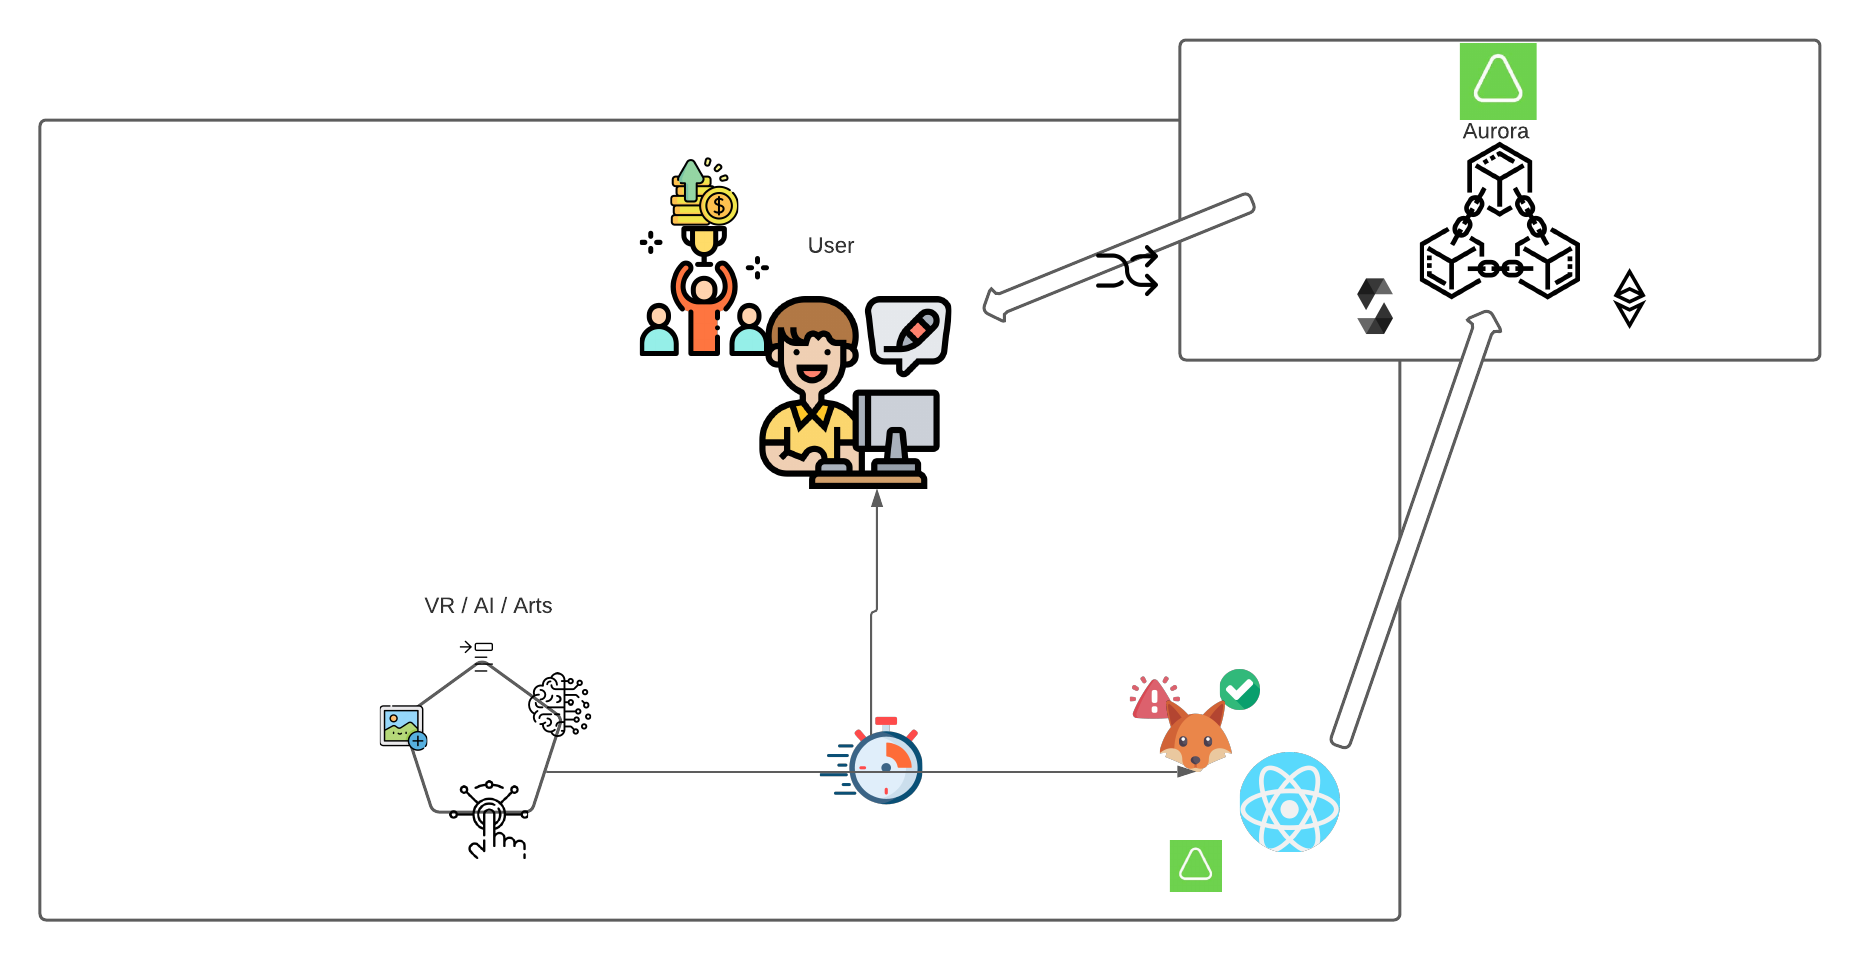
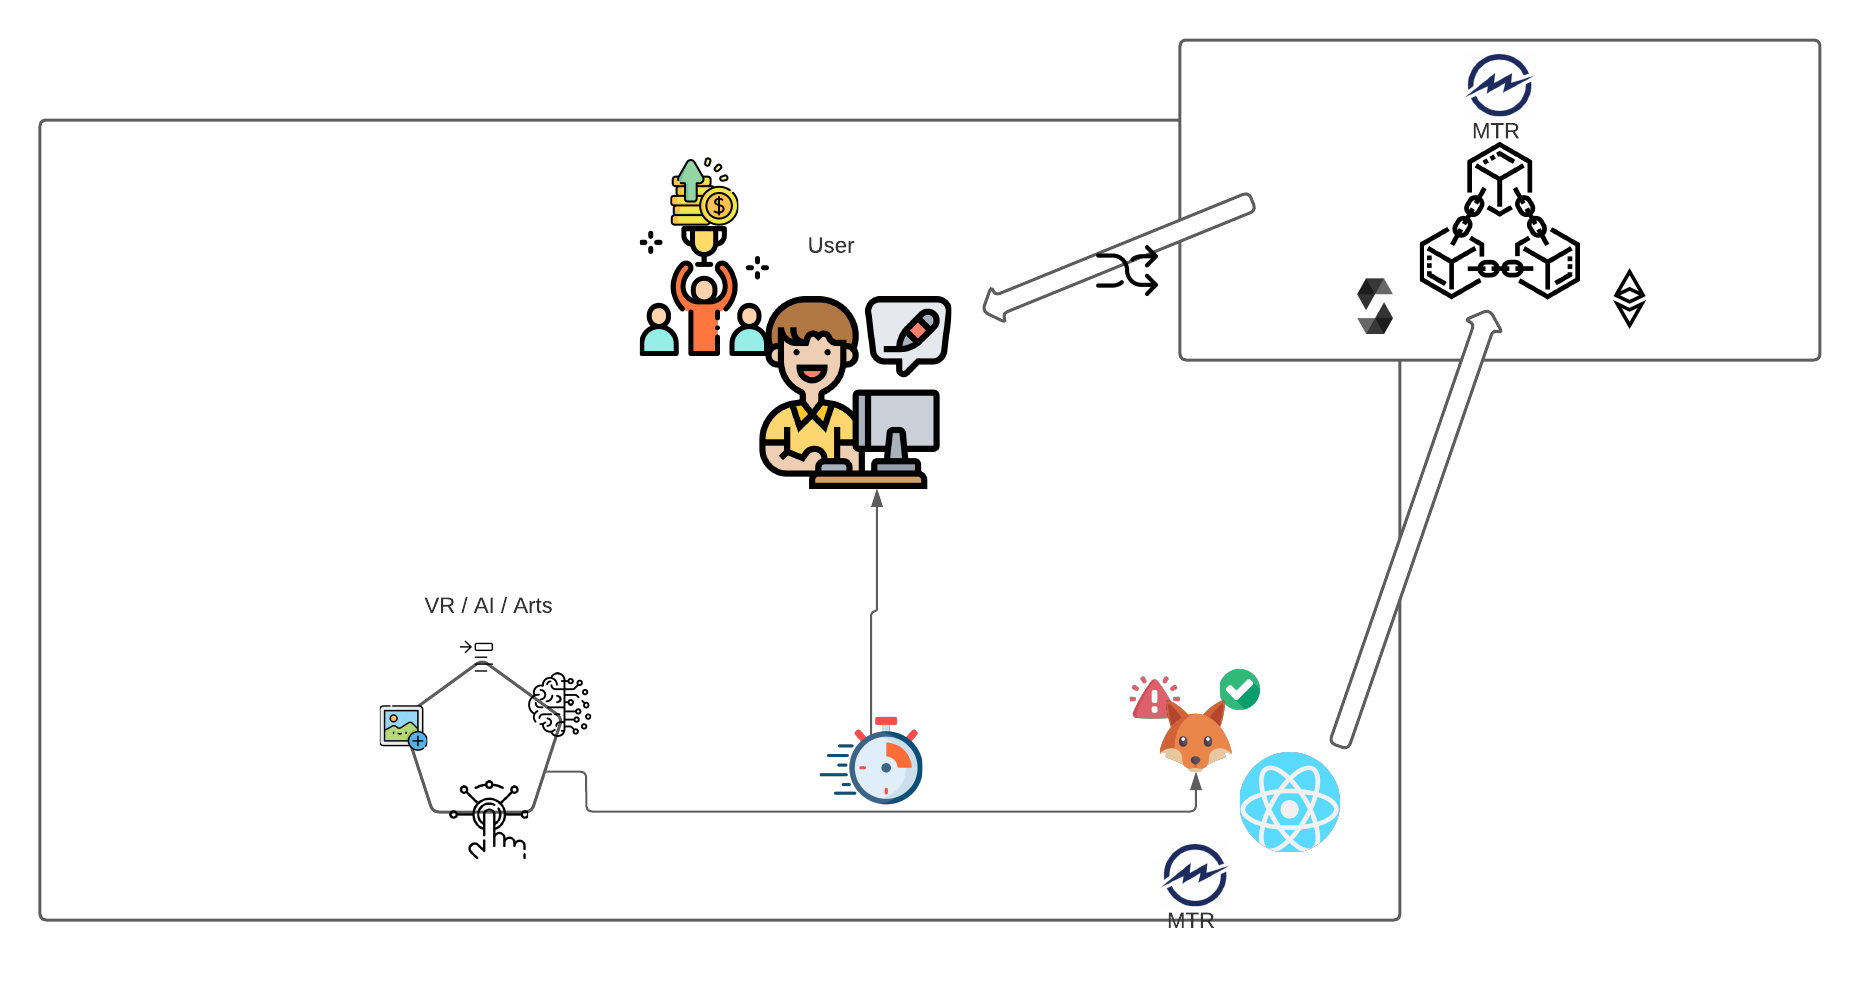
Submitting

diff --git a/README.md b/README.md
@@ -22,7 +22,7 @@ One of the issues plaguing the NFT ecosystem are counterfeiters or scam artists 
 
 - First, check out the site [AdeAI NFT Marketplace](https://adeai.netlify.app/)
 - Make sure you have a web wallet, preferably MetaMask.
-- If you haven’t added the Aurora Network yet, don’t worry the app will do that for you.
+- If you haven’t added the Meter Network yet, don’t worry the app will do that for you.
 - Make sure that you are on the testnet
 - Go to the faucet to get some test coins
 - Trade NFTs and play around with the AI.
@@ -30,9 +30,9 @@ One of the issues plaguing the NFT ecosystem are counterfeiters or scam artists 
 ## Check the 👉🏼 [walk-through](https://adeai-walkthrough.netlify.app/) 👈🏼 for a more comprehensive documentation
 
 How we built it
-![image](https://raw.githubusercontent.com/Bayurzx/adeai/master/screenshots/architecture.png)
+![image](https://raw.githubusercontent.com/Bayurzx/meter/master/screenshots/architecture.png)
 
-- The app was built with the help of the ReactJS Library and currently on top of the Aurora Testnet Network. DO NOT USE THE APP ON THE MAINNET.
+- The app was built with the help of the ReactJS Library and currently on top of the Meter Testnet Network. DO NOT USE THE APP ON THE MAINNET.
 - Users create a collection to house their NFTs. After creating a collection, you can then create your NFTs and then list them to be seen on the Marketplace. You need to setApprovalFor all before you can mint your token.
 - Make sure to choose between having a fixed price NFT or an auctionable NFT
 - You can choose to add a 3D version of your NFT make sure to check the walk-through to see how to add
@@ -57,9 +57,9 @@ How we built it
 
 ## Deploy smart-contract Steps
 
-After forking the repo, remember to run the following line on powershell to deploy to aurora and link the smart contract to the frontend.
+After forking the repo, remember to run the following line on powershell to deploy to the Meter network and link the smart contract to the frontend.
 
-- npx hardhat run scripts/deploy.js --network testnet_aurora
+- npx hardhat run scripts/deploy.js --network meter_testnet
 - copy-item -path ".\artifact\*" -destination ".\src\artifact\" -recurse -Force
 
 # Check out the app: [AdeAI NFT Marketplace](https://adeai.netlify.app/)
@@ -74,8 +74,7 @@ After forking the repo, remember to run the following line on powershell to depl
     <div class="col-lg-8">
     <div class="changelog_content">
         <ol>
-        <li><a href="https://doc.aurora.dev/" target="_blank" class="text-warning">Aurora</a></li>
-        <li><a href="https://near.org/" target="_blank" class="text-warning">Near Protocol</a></li>
+        <li><a href="https://docs.meter.io/" target="_blank" class="text-warning">Meter</a></li>
         <li><a href="https://portal.azure.com/" target="_blank" class="text-warning">Azure</a></li>
         <li><a href="http://sketchfab.com/" target="_blank" class="text-warning">Sketchfab</a></li>
         <li><a href="https://reactjs.org/" target="_blank" class="text-warning">ReactJS</a></li>
